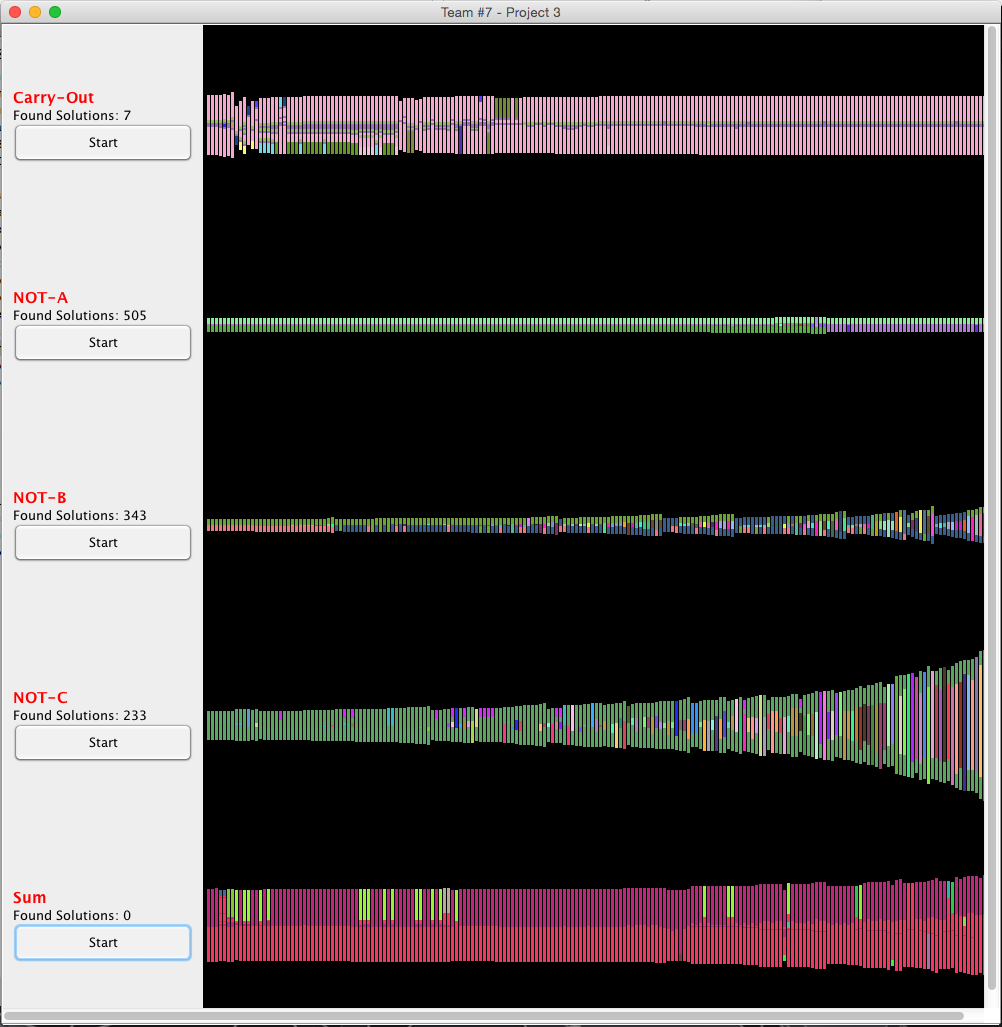
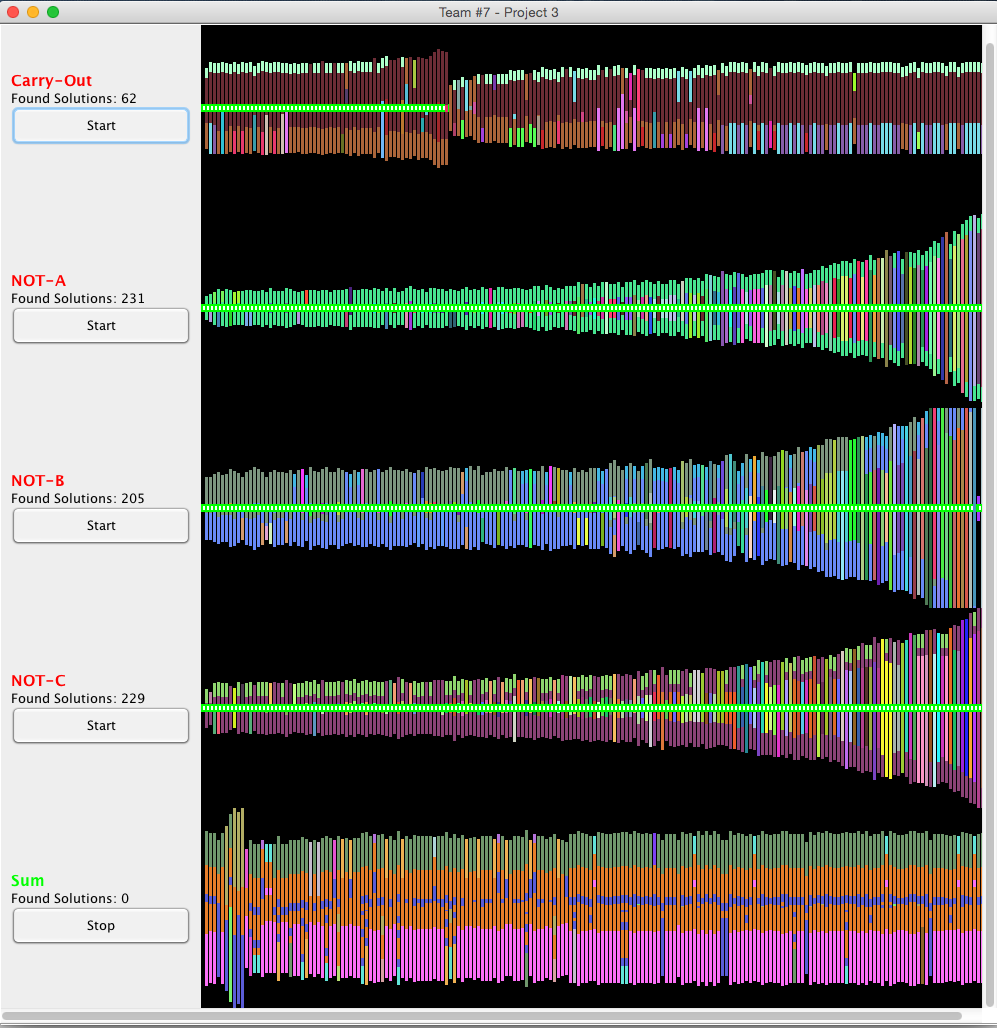
updating ga to show solution circuits and screenshot

diff --git a/src/Circuit.java b/src/Circuit.java
@@ -1,3 +1,4 @@
+import java.awt.Color;
 import java.awt.Graphics;
 import java.io.BufferedReader;
 import java.io.FileNotFoundException;
@@ -91,11 +92,17 @@ public class Circuit
 	 */
 	int getFitnessScore()
 	{	
+		int andOr = 0;
+		
+		if(counterAnd > 1000 || counterOr > 1000){
+			andOr = 10 * (counterAnd + counterOr);
+		}
+		
 		if(totalFailedTests != -1)
 		{
-			return (totalFailedTests * 1000000) + (counterNot * 10000) + 10 * (counterAnd + counterOr);
+			return (totalFailedTests * 1000000) + (counterNot * 10000) + andOr;
 		}
-		return (counterNot * 10000) + 10 * (counterAnd + counterOr);
+		return (counterNot * 10000) + andOr;
 	}
 	
 	/**
@@ -274,7 +281,7 @@ public class Circuit
 	 */
 	public ArrayList<LogicBase> getLastHalf(){
 		ArrayList<LogicBase> half = new ArrayList<LogicBase>(gates);
-		while(half.size() > gates.size()/2)
+		while(half.size() > 3+(gates.size()/2))
 		{
 			half.remove( half.size()-1 );
 		}
@@ -287,7 +294,7 @@ public class Circuit
 	 */
 	public ArrayList<LogicBase> getFirstHalf(){
 		ArrayList<LogicBase> half = new ArrayList<LogicBase>(gates);
-		while(half.size() > gates.size()/2)
+		while(half.size() > 3+(gates.size()/2))
 		{
 			half.remove( 0 );
 		}
@@ -344,6 +351,12 @@ public class Circuit
 	 * @param g Graphics
 	 */
 	public void onPaint(Graphics g){
+		if(totalFailedTests == 0){
+			g.setColor( Color.GREEN );
+			g.fillRect( -4, (gates.size()/2) - 4, 8, 8 );
+			g.setColor( Color.WHITE );
+			g.fillRect( -2, (gates.size()/2) - 2, 4, 4 );
+		}
 		for(int i = gates.size() - 1; i >= 0; i--)
 		{
 			gates.get(i).onPaint(g, i);

diff --git a/src/CircuitGA.java b/src/CircuitGA.java
@@ -48,7 +48,7 @@ public class CircuitGA{
 			
 			// pick a random number of gates that is at LEAST double
 			//  the size of the number of inputs (so it splits easier) 
-			int randTotalGates = tt.getTableWidth() * 3 + rand.nextInt(MAX_CIRCUITS);
+			int randTotalGates = tt.getTableWidth() * 3 + rand.nextInt(1000);
 			
 			// add some random gates
 			for(int k = 0; k < randTotalGates; k++)
